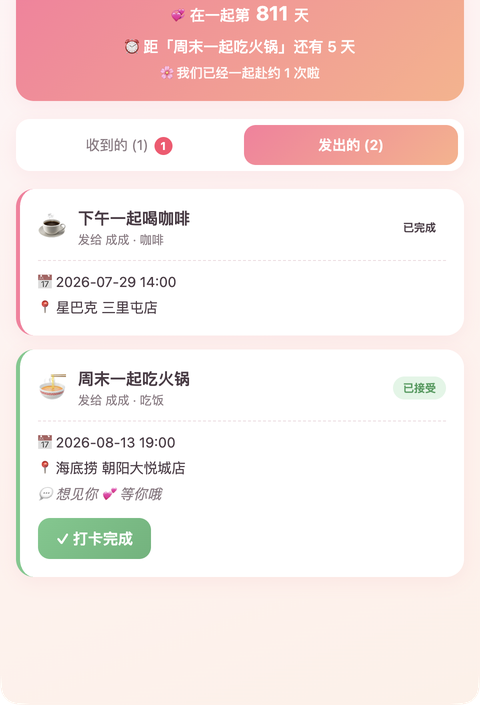
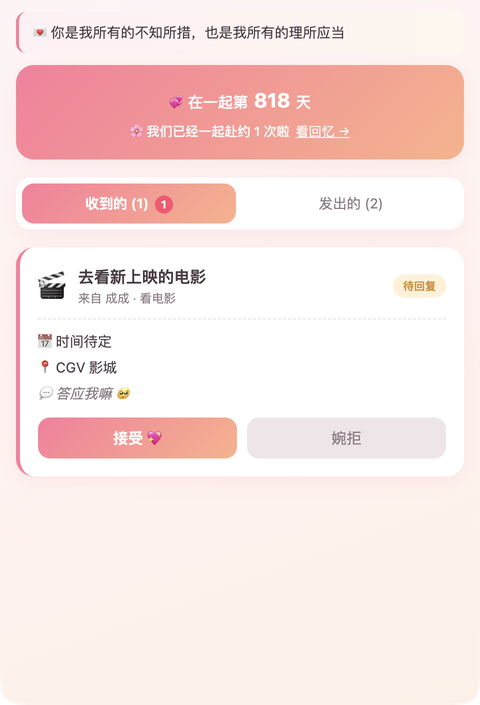
docs: README/RESUME 更新至最新功能 + 重截首页/聊天截图
- README 改名「双人日记 Twin Diary」，功能表加聊天/时间线/心情/情话/生日
- 架构要点加聊天室轮询说明 + 数据模型补 mood/diary/messages
- 截图：重截首页（新顶栏+情话），新增聊天页截图
- RESUME.md 重写：两点版亮点 + 四点版 + 口述版 + 追问表（项目名统一双人日记）

diff --git a/RESUME.md b/RESUME.md
@@ -1,38 +1,57 @@
-# 简历项目描述 · 约会邀请 Web App
+# 简历项目描述 · 双人日记 Twin Diary
 
-> 以下提供"简历段落版"和"面试口述版"两版，按需取用。
-
----
-
-## 一、简历段落版（直接贴简历，约 200 字）
-
-**约会邀请 Web App** — 个人全栈项目 ｜ React + Node.js + PostgreSQL ｜ [haoyidechengzi.xyz](https://haoyidechengzi.xyz) ｜ [GitHub 源码](https://github.com/chengqianqian-ux/date-app)
-
-面向情侣的约会邀请与心愿管理应用。前端使用 React 18 + Vite + React Router，后端基于 Node.js + Express 构建 RESTful API，数据持久化采用 PostgreSQL（Supabase），JWT 实现鉴权。支持情侣配对、约会邀请发送与状态流转（待回复/接受/婉拒/完成打卡）、约会心愿单、纪念日倒计时等功能。项目已部署至 Vercel Serverless，绑定自有域名并配置 HTTPS，国内可直接访问。技术上采用"一套 Express 代码同时服务本地开发与 Serverless"的架构，通过 `vercel.json` 的 rewrite 规则统一 API 入口；数据库使用幂等迁移脚本（`CREATE TABLE IF NOT EXISTS` + `ALTER TABLE ADD COLUMN IF NOT EXISTS`）实现增量字段的安全升级。
+> 面向情侣的约会与心愿管理 Web App。多档写法按简历格子大小取用。
 
 ---
 
-## 二、面试口述版（被问到"介绍一下这个项目"时用，约 1 分钟）
+## 一、两点亮点版（推荐，简历格子用）
 
-"这是我独立开发的一个情侣约会邀请 Web 应用，从需求设计、前后端开发到部署上线全流程自己做。
+**双人日记（Twin Diary）** — AI Coding 全栈个人项目 ｜ React 18 · Node.js · Express · PostgreSQL · Vercel
+在线：haoyidechengzi.xyz ｜ 源码：github.com/chengqianqian-ux/date-app
 
-**功能上**，用户注册登录后可以通过 6 位配对码和另一半绑定，然后互相发送约会邀请——选类型、时间、地点、留言，对方可以接受、婉拒，赴约后还能打卡完成。另外还有约会心愿单、纪念日倒计时、邀请红点提醒这些功能。
-
-**技术上**，前端是 React 18 加 Vite，后端是 Node.js 加 Express，数据库用 PostgreSQL。鉴权用 JWT，密码用 bcrypt 加密。部署在 Vercel 的 Serverless 上，绑了自己的域名加 HTTPS。
-
-这个项目我觉得比较有亮点的地方有两个：一是架构上，我让同一套 Express 代码既能本地跑、又能跑在 Vercel Serverless 上，通过一个 rewrite 规则把所有 `/api` 请求统一转给一个入口函数，再转发给 Express app，这样不用维护两套后端代码；二是数据库迁移用幂等 SQL，新加字段时用 `ALTER TABLE ADD COLUMN IF NOT EXISTS`，保证线上已经部署的数据库能安全升级，不会因为重复建表报错。"
+- **以 AI 结对编程完成 0→1 全栈交付**：React 18 + Vite 前端（9 个页面），Express 提供 20+ RESTful API，PostgreSQL 持久化，JWT + bcrypt 鉴权；独立完成需求设计、前后端开发、数据库建模与部署上线
+- **独立解决 Serverless 架构适配与部署工程问题**：一套 Express 代码经 Vercel rewrite 同时服务本地与线上；数据库用幂等迁移脚本实现增量字段安全升级；聊天室用轮询+增量接口实现准实时（Serverless 不支持 WebSocket）；排查并解决 vercel.app 域名被墙、Supabase pooler 连接、账号封禁等问题，最终绑定自有域名稳定上线
 
 ---
 
-## 三、面试可能被追问的点（提前准备）
+## 二、四点亮点版（如有项目详情块）
+
+**双人日记（Twin Diary）** — AI Coding 全栈个人项目
+技术栈：React 18 · Vite · Node.js · Express · PostgreSQL · JWT · Vercel Serverless
+链接：haoyidechengzi.xyz ｜ github.com/chengqianqian-ux/date-app
+
+- **以 AI 结对编程完成 0→1 全栈交付**：独立完成需求设计、前后端、数据库建模与部署上线；前端 React 18 + Vite（9 个页面），后端 Express 提供 20+ RESTful API，PostgreSQL 持久化，JWT + bcrypt 鉴权加密
+- **一套代码同时服务本地与 Serverless**：通过 Vercel rewrite 统一 API 入口，同一份 Express 既能本地 `app.listen` 又能跑在 Serverless 函数上，避免维护两套后端
+- **数据库幂等迁移保证安全升级**：建表用 `IF NOT EXISTS` + `ALTER TABLE ADD COLUMN IF NOT EXISTS`，增量字段在线上已部署库上重复执行不报错、不丢数据
+- **聊天室准实时 + 独立排查部署问题**：因 Serverless 不支持 WebSocket，用 2.5s 轮询+增量接口实现准实时；并独立解决域名被墙（绑自有域名）、Supabase 直连不通（切 pooler）、账号误封（走申诉）等问题
+
+---
+
+## 三、面试口述版（被问"介绍一下这个项目"用，约 1 分钟）
+
+"这个项目叫双人日记，是我以 AI 结对编程方式，从 0 到 1 独立交付的全栈应用。
+
+功能上是个情侣 app：配对后能互相发约会邀请、对方接受婉拒、完成打卡选心情、心愿单、聊天室、回忆时间线，还有纪念日倒计时、每日情话、生日提醒这些。
+
+技术上前端 React 18 加 Vite，后端 Node.js 加 Express，数据库 PostgreSQL，鉴权 JWT，密码 bcrypt。部署在 Vercel Serverless，绑了自己的域名加 HTTPS。
+
+我觉得有几个亮点：一是架构上，我让同一套 Express 代码既能本地跑、又能跑在 Serverless 上，通过一个 rewrite 把所有 API 请求统一转发给同一个 app，不用维护两套后端；二是数据库迁移用幂等 SQL，新加字段用 IF NOT EXISTS，线上已部署的库能安全升级；三是聊天室，因为 Vercel Serverless 不支持 WebSocket 长连接，我用轮询加增量接口实现了准实时——情侣 app 消息量小，没必要为 WebSocket 额外搭服务器，这是按场景选技术不是为用而用。
+
+部署过程也踩了些坑，vercel.app 域名被墙、Supabase 直连不通要改 pooler、账号被误封走申诉，都是我自己定位根因再解决的。"
+
+---
+
+## 四、面试可能被追问的点（提前准备）
 
 | 追问 | 准备要点 |
 |---|---|
-| 为什么选 Vercel Serverless 而不是传统服务器？ | 免运维、自动扩缩、免费额度够用；前端静态资源走 CDN，API 走 Serverless，冷启动可接受 |
-| JWT 鉴权怎么做的？token 存哪？ | 登录签发 7 天 JWT，前端存 localStorage，每次请求带 `Authorization: Bearer`；中间件解析 token 后回查数据库确保用户有效 |
-| 密码安全？ | bcrypt 哈希存储，不存明文；改密码时验证旧密码再更新 |
-| 一套代码怎么同时跑本地和 Serverless？ | `server/app.js` 导出纯 Express app；本地 `server/index.js` 调 `app.listen`；线上 `api/index.js` 把 `(req,res)` 转发给同一个 app |
-| 数据库表结构？ | 4 张表：users / couples / invitations / wishlists，通过 couple_id 关联，invitations 有状态机 |
-| 时区问题怎么处理？ | 纪念日是 DATE 类型，pg 驱动默认返回 UTC 时间戳会差一天，用 `to_char` 在 SQL 层格式化成 YYYY-MM-DD 规避 |
-| 怎么保证部署不破坏已有数据？ | 建表全用 `IF NOT EXISTS`，增量字段用 `ALTER TABLE ADD COLUMN IF NOT EXISTS`，幂等可重复执行 |
-| 这个项目最难的地方？ | 部署阶段：vercel.app 域名被墙、Supabase 直连不通需用 pooler、Vercel 账号被误封走申诉——都是实际工程问题，逐个排查解决 |
+| AI 具体怎么帮你的？ | 我定架构和需求、AI 写实现和查文档；陌生技术（JWT/bcrypt/pg pooler/Vercel rewrite）AI 帮我快速上手；不是代写是结对 |
+| 为什么选 Vercel Serverless？ | 免运维、自动扩缩、免费额度够；前端走 CDN，API 走 Serverless |
+| JWT 鉴权怎么做的？token 存哪？ | 登录签发 7 天 JWT 存 localStorage，请求带 Bearer；中间件解析后回查 DB 确保用户有效 |
+| 密码安全？ | bcrypt 哈希，不明文存储，故只能重置不能找回 |
+| 一套代码怎么双跑？ | app.js 导出纯 Express；本地 index.js 调 app.listen；线上 api/index.js 把 (req,res) 转发给同一 app |
+| 数据库表结构？ | 5 张表：users/couples/invitations/wishlists/messages，couple_id 关联；invitations 有状态机+心情+小记 |
+| 聊天为什么不用 WebSocket？ | Vercel Serverless 限时+不支持长连接；轮询 2.5s+增量接口足够，零额外服务；按场景选技术 |
+| 时区问题？ | DATE 字段用 to_char 在 SQL 层格式化 YYYY-MM-DD，规避 pg 返回 UTC 时间戳差一天 |
+| 项目最难的地方？ | 部署排坑：域名被墙、Supabase 连接、账号封禁——真实工程问题逐个解决 |
+| 数据存哪/代码在哪？ | 代码在 GitHub 开源；部署在 Vercel；数据在 Supabase PostgreSQL（东京），通过 pooler 连接串访问 |

diff --git a/README.md b/README.md
@@ -1,19 +1,20 @@
-# 💕 约会 · 两个人的小天地
+# 💕 双人日记 · Twin Diary
 
-> 一个情侣约会邀请 Web App：男女朋友配对后，可以互相发送约会邀请、维护心愿单、记录在一起的每一天。
+> 一个情侣约会与心愿管理 Web App：男女朋友配对后，可以互相发送约会邀请、维护心愿单、聊天、记录每一次赴约的回忆——把两个人的日常串成一本共同的日记。
 
 在线 Demo：**https://haoyidechengzi.xyz** （已部署，绑定自有域名 + HTTPS，国内可直接访问）
+GitHub：**https://github.com/chengqianqian-ux/date-app**
 
 ## 📷 功能截图
 
 <p align="center">
   <img src="screenshots/home.png" width="280" alt="首页" />
-  <img src="screenshots/new.png" width="280" alt="发起邀请" />
+  <img src="screenshots/chat.png" width="280" alt="聊天室" />
   <img src="screenshots/wishlist.png" width="280" alt="心愿单" />
   <img src="screenshots/profile.png" width="280" alt="个人中心" />
 </p>
 
-> 左起：首页（纪念日倒计时 + 赴约统计 + 待回复红点）/ 发起邀请（表情贴纸）/ 心愿单 / 个人中心
+> 左起：首页（每日情话 + 纪念日倒计时 + 赴约统计 + 红点）/ 聊天室（左右气泡）/ 心愿单 / 个人中心
 
 ---
 
@@ -23,12 +24,16 @@
 |---|---|
 | 👫 情侣配对 | 一方生成 6 位配对码，另一方输入码完成绑定，一对一关系 |
 | 💌 约会邀请 | 发起邀请（标题/类型/时间/地点/留言），对方可接受 / 婉拒 / 取消 |
-| ✓ 完成打卡 | 已接受的约会可标记"完成"，首页统计累计赴约次数 |
+| ✓ 完成打卡 + 心情 | 已接受的约会标记完成时可选心情（😊🥰🥳😌😴），首页统计累计赴约次数 |
 | 📝 约会心愿单 | 把想一起做的事记下来，发邀请时一键选用，自动带出标题/类型/地点 |
+| 💬 情侣聊天室 | 实时聊天（轮询增量拉取，页面隐藏时暂停省流量），左右气泡区分双方 |
+| 📖 回忆时间线 | 所有完成的约会按时间排成时间线，可写/改"今日小记"，记录每一次赴约 |
 | 💞 纪念日倒计时 | 设置"在一起的日子"，首页实时显示「在一起第 N 天」+ 距下次约会倒计时 |
+| 💌 每日情话 | 首页每日一句情话（服务端内置池，按日期固定，两人当天一致） |
+| 🎂 生日提醒 | 设置各自生日，首页显示距下次生日还有几天 |
 | 🔔 状态提醒 | 收到待回复邀请时，Tab 上显示数字红点 |
 | 😘 表情贴纸 | 邀请留言支持一键插入可爱表情 |
-| 👤 个人中心 | 查看账号信息、修改密码、设置纪念日 |
+| 👤 个人中心 | 查看账号信息、修改密码、设置纪念日与生日 |
 | 🔐 记住登录 | 登录页可勾选"记住账号密码"，下次自动填入 |
 
 ---
@@ -65,6 +70,12 @@
 ### 鉴权
 - 登录/注册成功签发 7 天有效期的 JWT，前端存 localStorage
 - `authRequired` 中间件解析 token 并回查数据库，确保用户真实存在且信息最新
+- 密码用 bcrypt 不可逆哈希，不明文存储（故只能重置不能找回）
+
+### 聊天室准实时（Serverless 友好）
+- Vercel Serverless 函数有执行时长限制、不支持 WebSocket 长连接，故聊天用**轮询 + 增量接口**实现准实时
+- 前端每 2.5 秒拉取 `?after=最后消息id` 之后的增量消息；页面切到后台时暂停轮询省流量
+- 消息量小、双人场景下体验与 WebSocket 几乎无差，且零额外服务/零运维成本
 
 ### 时区处理
 - 纪念日字段为 `DATE` 类型，用 `to_char(anniversary, 'YYYY-MM-DD')` 在 SQL 层格式化返回，避免 pg 驱动返回 UTC 时间戳导致的前端日期偏移一天
@@ -73,13 +84,15 @@
 
 ```
 users        id, username(唯一), password_hash, nickname, couple_id, created_at
-couples      id, pair_code(唯一), anniversary, created_at
+couples      id, pair_code(唯一), anniversary, birthday_a, birthday_b, created_at
 invitations  id, couple_id, from_user_id, to_user_id, title, type,
-             meet_time, location, note, status, created_at, responded_at
+             meet_time, location, note, status, mood, diary, created_at, responded_at
 wishlists    id, couple_id, user_id, title, type, location, note, done, created_at
+messages     id, couple_id, user_id, content, created_at
 ```
 
 `invitations.status`：`pending` → `accepted`/`rejected`/`cancelled` → `completed`
+`invitations.mood`：happy / sweet / excited / calm / tired / rainy
 
 ---
 
